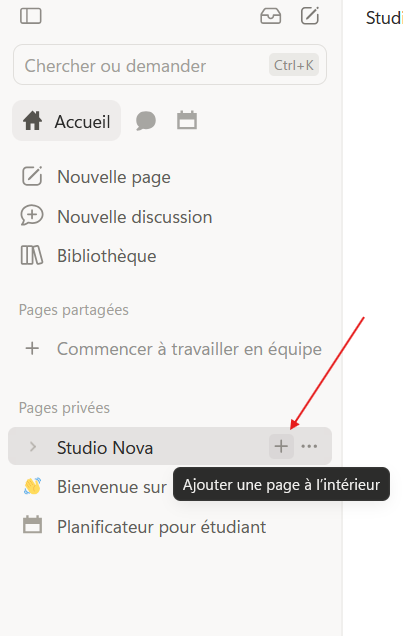
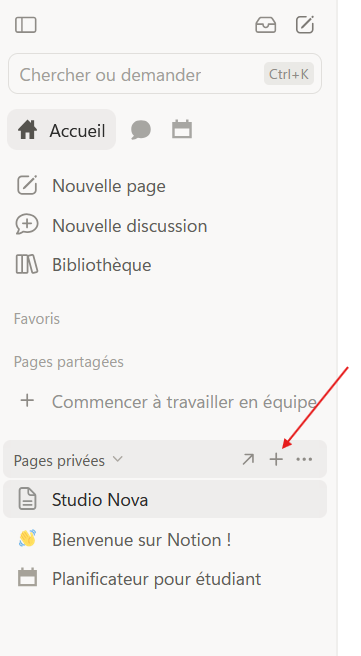
1.3 : nouvelle capture du « + » à côté de « Pages privées »
Claude-Session: https://claude.ai/code/session_01FC8iCvTPbnXeTJtYSQPRyh

diff --git a/lecons/m01-l03-entrer-dans-studio-nova.html b/lecons/m01-l03-entrer-dans-studio-nova.html
@@ -110,7 +110,7 @@
           <li>Clique sur ce « + ». Une nouvelle page vide s'ouvre, avec « Nouvelle page » écrit en gris à la place du titre.
             <figure class="screenshot">
               <div class="screenshot__pair">
-                <img src="../images/captures/m01-nouvelle-page-1.png" alt="Barre latérale : le « + » à droite de « Pages privées », signalé par une flèche" width="403" height="636" loading="lazy" style="flex-grow: 0.634">
+                <img src="../images/captures/m01-nouvelle-page-1.png" alt="Barre latérale : au survol de « Pages privées », un « + » apparaît à droite, signalé par une flèche" width="361" height="656" loading="lazy" style="flex-grow: 0.550">
                 <img src="../images/captures/m01-nouvelle-page-2.png" alt="La nouvelle page vide qui s'ouvre, avec « Nouvelle page » écrit en gris à la place du titre" width="1479" height="999" loading="lazy" style="flex-grow: 1.480">
               </div>
             </figure>
